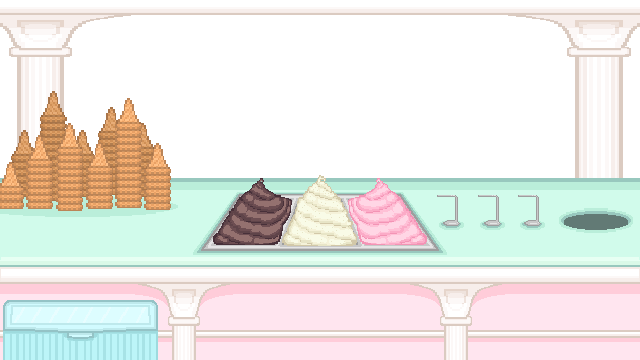
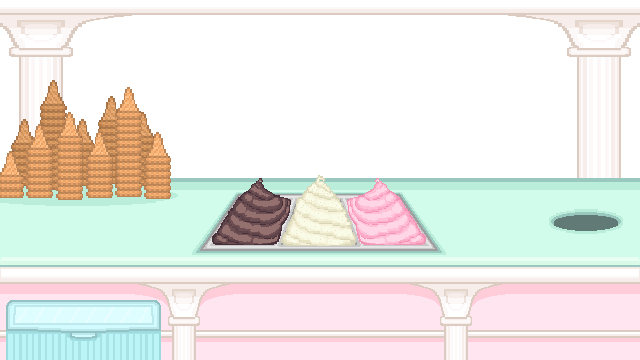
Implement click and drag for cone

diff --git a/components/interactive-counter/icecream-cones/Drag.cs b/components/interactive-counter/icecream-cones/Drag.cs
@@ -1,0 +1,43 @@
+using Godot;
+
+public partial class Drag : Node2D
+{
+    private bool selected = false;
+    private Vector2 mouseOffset = Vector2.Zero;
+
+    public override void _Process(double delta)
+    {
+        if (selected)
+        {
+            FollowMouse();
+        }
+    }
+
+    private void FollowMouse()
+    {
+        GlobalPosition = GetViewport().GetMousePosition() + mouseOffset;
+    }
+
+
+    private void _OnArea2DInputEvent(Node viewport, InputEvent @event, long shapeIdx)//+
+    {
+        if (@event is InputEventMouseButton mouseEvent && mouseEvent.ButtonIndex == MouseButton.Left)
+        {
+            if (mouseEvent.Pressed)
+            {
+                mouseOffset = GlobalPosition - GetViewport().GetMousePosition();
+                selected = true;
+            }
+            else
+            {
+                selected = false;
+            }
+        }
+    }
+
+    public override void _Ready()
+    {
+        var area = GetNode<Area2D>("Area2D");
+        area.InputEvent += _OnArea2DInputEvent;
+    }
+}
